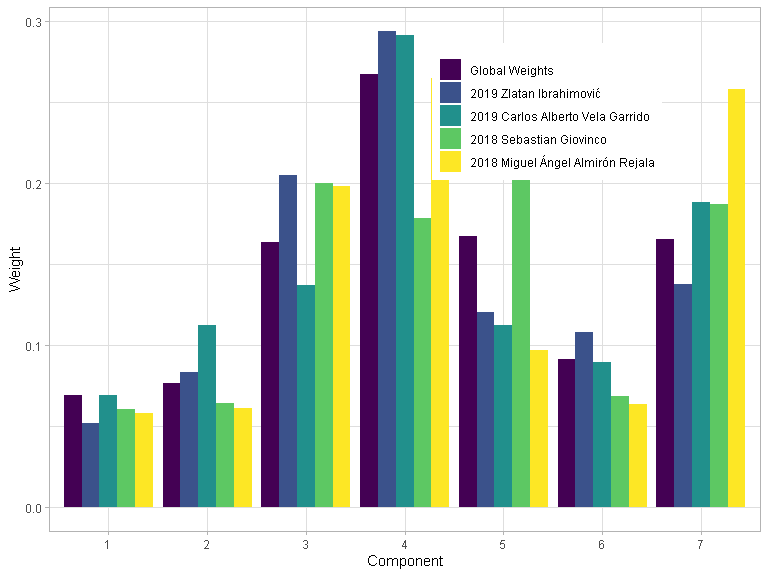
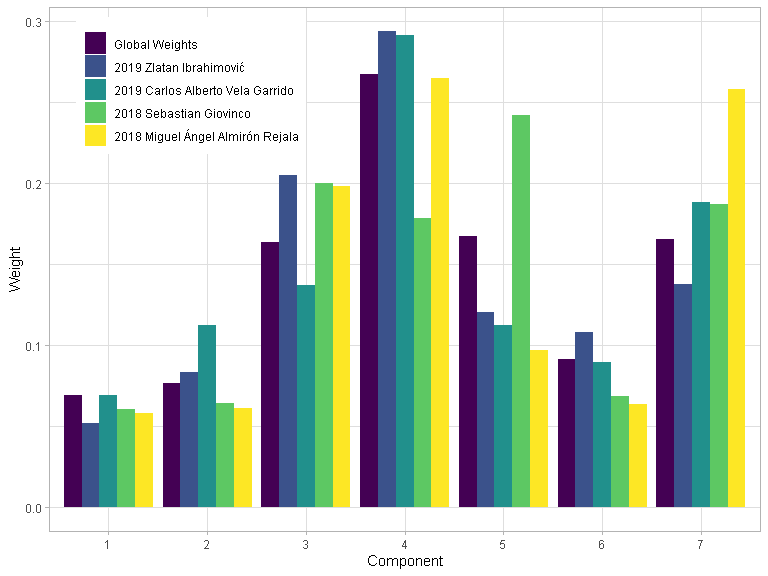
Add minor results

Changed region(s): [[0.0938, 0.0312, 0.375, 0.25], [0.5625, 0.0938, 0.8438, 0.3125], [0.7812, 0.2812, 0.8438, 0.3125]]

diff --git a/reproduction/miss_it_like_messi.md b/reproduction/miss_it_like_messi.md
@@ -9,6 +9,9 @@ devtools::load_all()
 ## Table 1
 
 ``` r
+nrow(statsbomb_shots_processed)
+#> [1] 77315
+
 statsbomb_shots_processed |>
   dplyr::group_by(League, Season) |>
   dplyr::summarise(num_shots = dplyr::n(), .groups = "keep") |>
@@ -140,6 +143,47 @@ shots |>
 ```
 
 ![](miss_it_like_messi_files/figure-gfm/figure_5-1.png)<!-- -->
+
+``` r
+
+
+print("AUROC of StatsBomb PostXg:")
+#> [1] "AUROC of StatsBomb PostXg:"
+pROC::auc(
+  pROC::roc(
+    statsbomb_shots_processed |>
+      filter_post_xg_shots() |>
+      dplyr::pull(outcome) == "Goal",
+    statsbomb_shots_processed |>
+      filter_post_xg_shots() |>
+      dplyr::pull(SBPostXg)
+  )
+)
+#> Setting levels: control = FALSE, case = TRUE
+#> Setting direction: controls < cases
+#> Area under the curve: 0.8601
+
+print("AUROC of Coordinates-based PostXg:")
+#> [1] "AUROC of Coordinates-based PostXg:"
+pROC::auc(
+  pROC::roc(
+    statsbomb_shots_processed |>
+      filter_post_xg_shots() |>
+      dplyr::pull(outcome) == "Goal",
+    predict_post_xg(
+      statsbomb_shots_processed |>
+        filter_post_xg_shots() |>
+        dplyr::pull(y_end_proj),
+      statsbomb_shots_processed |>
+        filter_post_xg_shots() |>
+        dplyr::pull(z_end_proj)
+    )
+  )
+)
+#> Setting levels: control = FALSE, case = TRUE
+#> Setting direction: controls < cases
+#> Area under the curve: 0.7035
+```
 
 ## Figure 7
 
@@ -380,7 +424,7 @@ shot_metrics |>
   ggplot2::geom_col(position = "dodge") +
   ggplot2::theme_light() +
   ggplot2::theme(
-    legend.position = c(0.7, 0.8),
+    legend.position = c(0.2, 0.85),
     legend.title = ggplot2::element_blank()
   ) +
   ggplot2::scale_fill_viridis_d()
@@ -430,21 +474,22 @@ stability_data |>
   data.frame() |>
   dplyr::select(dplyr::ends_with("_b")) |>
   as.matrix() |>
+  round(3) |>
   knitr::kable()
 ```
 
-|               |     gax_b |     ega_b | rb_post_xg_b | gen_post_xg_b |
-|:--------------|----------:|----------:|-------------:|--------------:|
-| gax_a         | 0.0345913 | 0.0263737 |    0.0064942 |     0.0237008 |
-| ega_a         | 0.0248457 | 0.0561781 |    0.0025716 |     0.0099577 |
-| rb_post_xg_a  | 0.0318653 | 0.0415527 |    0.1357387 |     0.1407761 |
-| gen_post_xg_a | 0.0738328 | 0.0716996 |    0.1322418 |     0.1620306 |
+|               | gax_b | ega_b | rb_post_xg_b | gen_post_xg_b |
+|:--------------|------:|------:|-------------:|--------------:|
+| gax_a         | 0.035 | 0.026 |        0.006 |         0.024 |
+| ega_a         | 0.025 | 0.056 |        0.003 |         0.010 |
+| rb_post_xg_a  | 0.032 | 0.042 |        0.136 |         0.141 |
+| gen_post_xg_a | 0.074 | 0.072 |        0.132 |         0.162 |
 
 ## Table 4
 
 ``` r
 stability_data |>
-  dplyr::filter(n_a + n_b >= 30) |>
+  dplyr::filter(n_a + n_b >= 40) |>
   # Get metrics only
   dplyr::select(
     dplyr::starts_with("gax"),
@@ -460,15 +505,16 @@ stability_data |>
   data.frame() |>
   dplyr::select(dplyr::ends_with("_b")) |>
   as.matrix() |>
+  round(3) |>
   knitr::kable()
 ```
 
-|               |     gax_b |     ega_b | rb_post_xg_b | gen_post_xg_b |
-|:--------------|----------:|----------:|-------------:|--------------:|
-| gax_a         | 0.0435975 | 0.0346995 |   -0.0080152 |     0.0036074 |
-| ega_a         | 0.0460117 | 0.0344146 |   -0.0165259 |    -0.0327686 |
-| rb_post_xg_a  | 0.1170757 | 0.0577981 |    0.1548329 |     0.1428222 |
-| gen_post_xg_a | 0.1284540 | 0.0504602 |    0.1384314 |     0.1307297 |
+|               |  gax_b |  ega_b | rb_post_xg_b | gen_post_xg_b |
+|:--------------|-------:|-------:|-------------:|--------------:|
+| gax_a         | -0.025 | -0.065 |       -0.040 |        -0.023 |
+| ega_a         | -0.025 | -0.033 |       -0.053 |        -0.076 |
+| rb_post_xg_a  |  0.028 |  0.035 |        0.219 |         0.226 |
+| gen_post_xg_a |  0.037 |  0.020 |        0.219 |         0.232 |
 
 ## Figure 6
 
